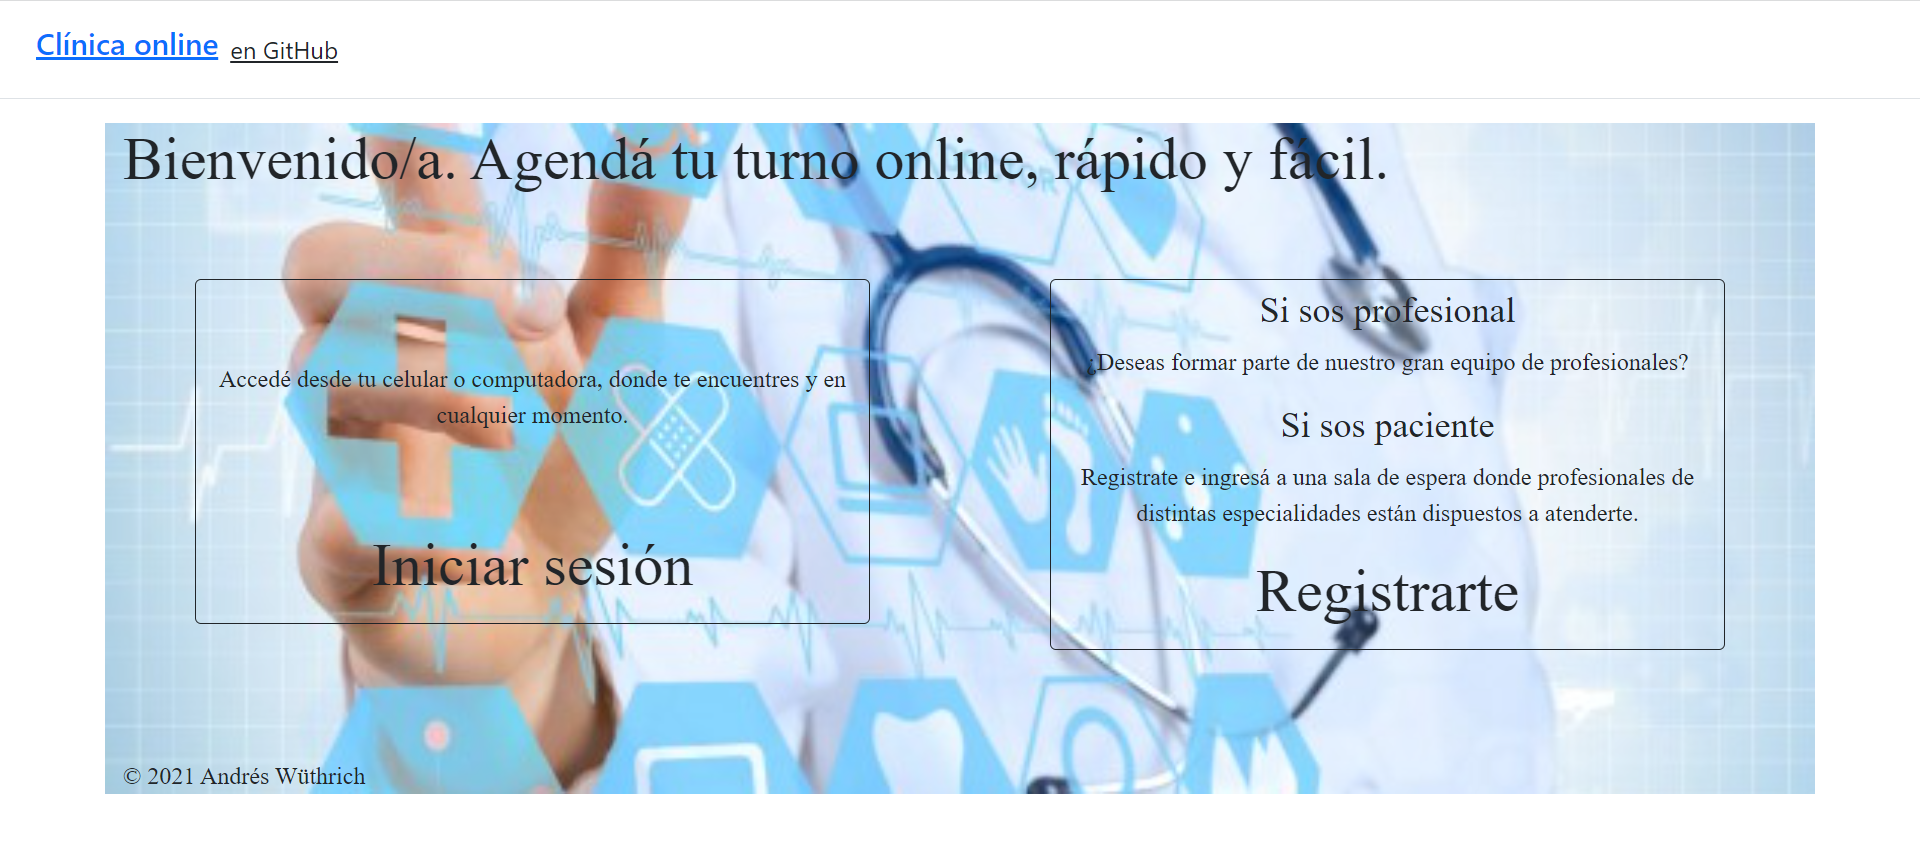
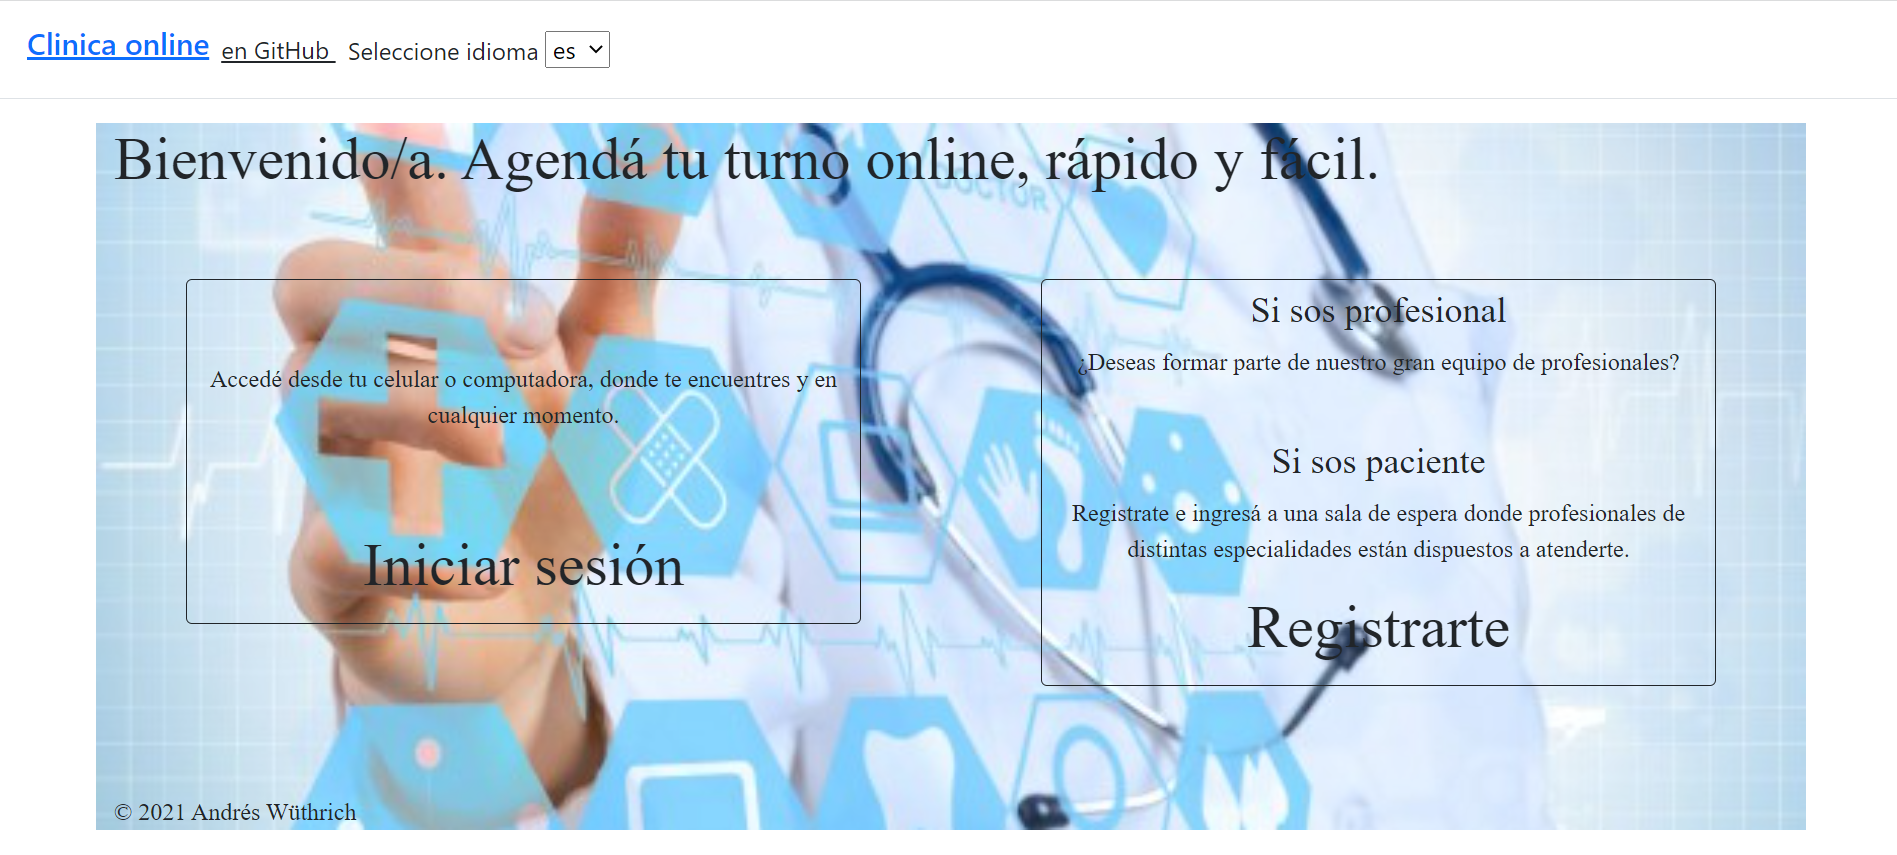
25to commit. readme version final

diff --git a/src/app/auth/registro/registro.component.ts b/src/app/auth/registro/registro.component.ts
@@ -38,6 +38,7 @@ export class RegistroComponent implements OnInit {
   public perfil: string = '';
   private imagenPerfil: any;
   private imagenPerfil2: any;
+  public deshabilitaCaptcha: boolean = true;
 
   public usuarioAlta: Usuario = new Usuario();
   public especialidadAlta: Especialidad = new Especialidad();
@@ -59,21 +60,34 @@ export class RegistroComponent implements OnInit {
     this.signup = false;
     this.registroUp = false;
 
-    this.formRegistro = this.fb.group({
-      'nombre':['', Validators.required],
-      'apellido':['', Validators.required],
-      'edad':['', [Validators.required, Validators.min(18), Validators.max(99)]],
-      'dni':['', [Validators.required, Validators.min(1000000)]],
-      // 'perfil':['', Validators.required],
-      'email':['', Validators.required],
-      'password':['', [Validators.required, Validators.minLength(6)]],
-      'imagen':['', Validators.required],      
-
-      // 'imagen2':['', Validators.required],      
-      // 'obraSocial':['', Validators.required],
-      // 'especialidad':['', Validators.required],          
-    });
-
+    if(this.perfil == 'paciente'){
+      this.formRegistro = this.fb.group({
+        'nombre':['', Validators.required],
+        'apellido':['', Validators.required],
+        'edad':['', [Validators.required, Validators.min(18), Validators.max(99)]],
+        'dni':['', [Validators.required, Validators.min(1000000)]],
+        // 'perfil':['', Validators.required],
+        'email':['', Validators.required],
+        'password':['', [Validators.required, Validators.minLength(6)]],
+        'imagen':['', Validators.required],      
+  
+        // 'imagen2':['', Validators.required],      
+        // 'obraSocial':['', Validators.required],
+        'especialidad':['', Validators.required]          
+      });
+    } else{
+      this.formRegistro = this.fb.group({
+        'nombre':['', Validators.required],
+        'apellido':['', Validators.required],
+        'edad':['', [Validators.required, Validators.min(18), Validators.max(99)]],
+        'dni':['', [Validators.required, Validators.min(1000000)]],
+        // 'perfil':['', Validators.required],
+        'email':['', Validators.required],
+        'password':['', [Validators.required, Validators.minLength(6)]],
+        'imagen':['', Validators.required]  
+      });
+    }
+  
     this.especialidadService.traerTodas().subscribe((especialidades: Especialidad[]) => {
       console.log(especialidades);
       this.listaEspecialidades = especialidades;
@@ -97,14 +111,16 @@ export class RegistroComponent implements OnInit {
     this.captcha = captchaResponse;
     //res.getResponse(captchaResponse);
   }
-
-  
   resolved(captchaResponse: any, res: string) {
     console.log(`Resolved response token: ${captchaResponse}`);
     this.captcha = captchaResponse;
     //res.getResponse(captchaResponse);
   }
-
+  deshabilitarCaptcha(){
+    // this.captchaResuelto=true;
+    // this.captchaResuelto2=true;
+    this.deshabilitaCaptcha = false;
+  }
   agregarDias() {
 
     this.listaDiasSeleccionadas.push(new DiasAtencion(true, 'LUNES', 8, 19));
@@ -152,8 +168,8 @@ export class RegistroComponent implements OnInit {
       this.usuarioAlta.uid = value?.user?.uid;
  
       if(this.perfil=='paciente'){
-        this.usuarioAlta.imagenPerfil2 = this.formRegistro.controls['imagen2'].value;
-        this.usuarioAlta.obraSocial = this.formRegistro.controls['obraSocial'].value;
+        // this.usuarioAlta.imagenPerfil2 = this.formRegistro.controls['imagen2'].value;
+        // this.usuarioAlta.obraSocial = this.formRegistro.controls['obraSocial'].value;
         this.usuarioAlta.cuentaAprobada = true;
         
         console.log(this.imagenPerfil);

diff --git a/src/app/auth/registro/registro.component.html b/src/app/auth/registro/registro.component.html
@@ -42,11 +42,11 @@
                 <small class="invalid" *ngIf="formRegistro.get('dni')?.errors?.min && formRegistro.get('dni')?.touched">El dni debe ser mayor a 1.000.000</small>
               </div>
       
-              <div class="col-md-12 mb-2" *ngIf="perfil=='paciente'">
+              <!-- <div class="col-md-12 mb-2" *ngIf="perfil=='paciente'">
                 <label for="obraSocial" class="form-label">Obra social</label>
                 <input type="text" class="form-control" id="obraSocial" placeholder="Ingrese obra social" formControlName='obraSocial'>
                 <small class="invalid" *ngIf="formRegistro.get('obraSocial')?.errors?.required && formRegistro.get('obraSocial')?.touched">La obra social es requerida</small>
-              </div>
+              </div> -->
       
               <!-- <div class="col-md-12 mb-2" *ngIf="perfil=='especialista'">
                 <label for="especialidad" class="form-label">Especialidad</label>
@@ -105,21 +105,23 @@
                 <input type="file" class="form-control" id="imagen" placeholder="Ingrese imagen de perfil" formControlName='imagen' (change)="cargarImagen($event)">
                 <small class="invalid" *ngIf="formRegistro.get('imagen')?.errors?.required && formRegistro.get('imagen')?.touched">La imagen de perfil es requerida</small>
               </div>
-              <div class="col-md-12 mb-2" *ngIf="perfil=='paciente'">
+              <!-- <div class="col-md-12 mb-2">
                 <label for="imagen2" class="form-label">2da imagen de perfil</label>
                 <input type="file" class="form-control" id="imagen2" placeholder="Ingrese 2da imagen de perfil" formControlName='imagen2' (change)="cargarImagen2($event)">
                 <small class="invalid" *ngIf="formRegistro.get('imagen2')?.errors?.required && formRegistro.get('imagen2')?.touched">La 2da imagen de perfil es requerida</small>
-              </div>
+              </div> -->
             </div>
       
             <!-- <div class="g-recaptcha" data-sitekey="6LeBpWYdAAAAAH0O9qi5tSss0R8YiqQTgNg7OU-B">CAPTCHA</div> -->
             
-            <div class="col-sm-2 text-center mt-4">
+            <div class="col-sm-2 text-center mt-4" *ngIf= "deshabilitaCaptcha">
               <!-- <h2>sd</h2> -->
               <re-captcha (resolved)="resolved2($event)"  
                   siteKey="6LeBpWYdAAAAAH0O9qi5tSss0R8YiqQTgNg7OU-B">
               </re-captcha>
-          </div>
+            </div>
+            
+            <button type="button" (click)="deshabilitarCaptcha()" class="btn btn-primary">Deshabilitar captcha</button>
           <!-- <div class="col-sm-2 text-center mt-4">
             <re-captcha (resolved)="resolved2($event)" formControlName="recaptchaReactive" 
                 siteKey="6LeBpWYdAAAAAH0O9qi5tSss0R8YiqQTgNg7OU-B">

diff --git a/src/app/auth/login/login.component.html b/src/app/auth/login/login.component.html
@@ -43,8 +43,9 @@
           {{ 'Cancelar' | translate }}
         </button>
     
-        <button class="btn btn-lg btn-outline-success" type="submit" style="margin: 5px" routerLink="/registro">
-          <!-- Registrarse -->
+        <button class="btn btn-lg btn-outline-success" style="margin: 5px" routerLink="/auth/registro">
+          <!-- <button class="btn btn-lg btn-outline-success" type="submit" style="margin: 5px" routerLink="/registro"> -->
+            <!-- Registrarse -->
           {{ 'Signup' | translate }}
         </button>
       </div>

diff --git a/src/app/pages/usuario/usuario.component.ts b/src/app/pages/usuario/usuario.component.ts
@@ -70,6 +70,7 @@ export class UsuarioComponent implements OnInit {
     this.signup = false;
     this.registroUp = false;
 
+    
     this.formAdmin = this.fb.group({
       'nombre':['', Validators.required],
       'apellido':['', Validators.required],

diff --git a/README.md b/README.md
@@ -1,9 +1,7 @@
-# ClinicaOnline ![Logo](src/assets/imagenes/logo.png "Logo")
+# ClinicaOnline ![Logo](src/assets/imagenes/logo.png "Logo"){:height="50%" width="50%"}
 
 Proyecto realizado con [Angular CLI](https://github.com/angular/angular-cli) version 12.0.0.
-
 TP Final Laboratorio IV 2021 - UTNFRA - Técnico superior en programación.
-
 [Sitio WEB de GitHub](https://github.com/AndresWuthrich/clinicaonlineadw)
 
 -----
@@ -12,20 +10,23 @@ TP Final Laboratorio IV 2021 - UTNFRA - Técnico superior en programación.
 **Bienvenida**
 ![Bienvenido](src/assets/imagenes/bienvenido2.png "Bienvenido")
 
+La clínica OnLine, especialista en salud, cuenta actualmente con consultorios (6 en la actualidad), dos laboratorios (físicos en la clínica), y una sala de espera general. Está abierta al público de lunes a viernes en el horario de 8:00 a 19:00, y los sábados en el horario de 8:00 a 14:00. Trabajan en ella profesionales de diversas especialidades, que ocupan los consultorios acorde a su disponibilidad, y reciben en ellos pacientes con turno para consulta o tratamiento. Dichos turnos son pedidos por la web seleccionando el profesional o la especialidad.
+
 >Desde la pantalla de bienvenida podrás:
-* Visualizar links vinculados a la clínica (carrousel).
+* Seleccionar idioma de la web. Opciones: Español - Inglés - Portugués.
 * Ingresar a las siguientes opciones:
-    * Login
-    ![Login](src/assets/imagenes/login.png "Login")
     * Registro
+    Primero deberá seleccionar perfil. Luego completar datos requeridos, y validar mail.    
     ![Registro](src/assets/imagenes/registro.png "Registro")
+    * Login
+    Con usuario validado podrá acceder a la web. Los especialistas deberán ser aprobados por el administrador.
+    ![Login](src/assets/imagenes/login.png "Login")
 
 
-![principal](http://octaviovillegas.github.io/CursoIngresoJS/img/principal.gif)
-
+<!-- ![principal](http://octaviovillegas.github.io/CursoIngresoJS/img/principal.gif) -->
 -----
 ## Perfiles 
->Se permiten los sig. perfiles:
+>Se permiten los sig. perfiles en la web:
 * Administrador
 * Especialista
 * Paciente
@@ -34,6 +35,7 @@ TP Final Laboratorio IV 2021 - UTNFRA - Técnico superior en programación.
 >Todos los usuarios podrán ver su perfil.
 
 * Administrador:
+    ![Informes](src/assets/imagenes/informes.png "Informes")
     * Solicitar Turno.
     * Administrar usuarios especialistas.
     * Ver/ cancelar turnos.
@@ -45,13 +47,14 @@ TP Final Laboratorio IV 2021 - UTNFRA - Técnico superior en programación.
         * Cantidad de turnos finalizados por médico en un lapso de tiempo      
 
 * Especialista:
+    ![Turnos](src/assets/imagenes/turnos.png "Turnos")
     * Ver/Aceptar/Rechazar/Cancelar turnos asignados.
     * Cargar historia clínica de turnos realizados.
 
 * Paciente:
+    ![Solicitar](src/assets/imagenes/solicitar.png "Solicitar")
     * Solicitar Turno
     * Ver/Cancelar turnos solicitados.
     * Calificar atención.
     * Completar encuesta.
     * Ver historia clínica. 
-
